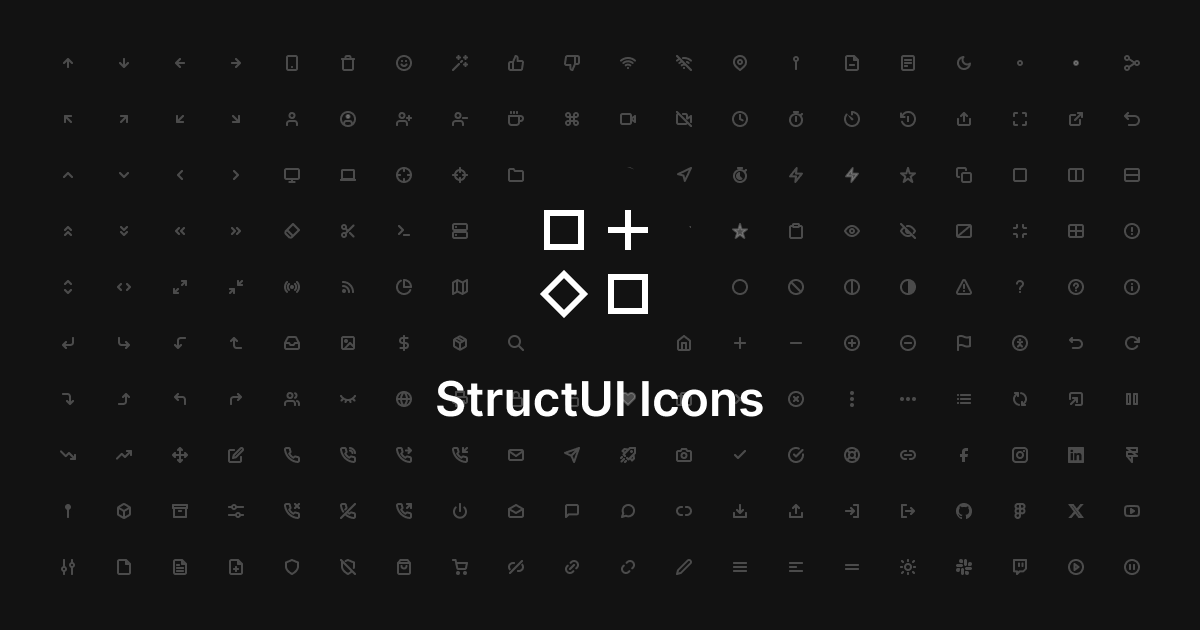
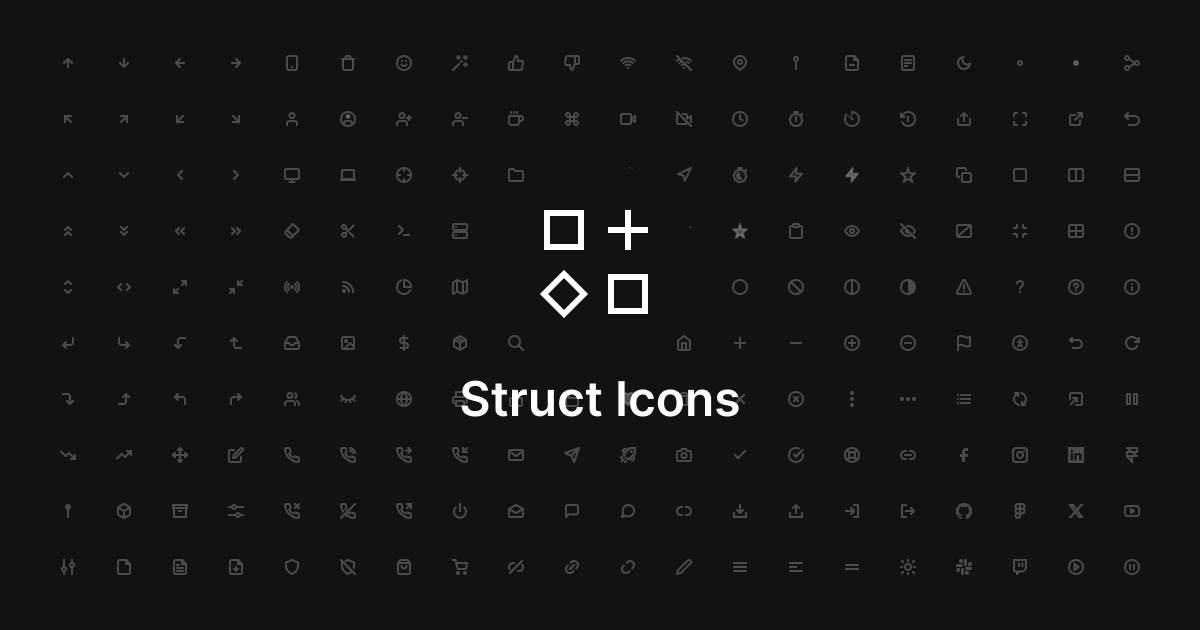
Metadata updated

Changed region(s): [[0.3392, 0.6032, 0.6475, 0.6635]]

diff --git a/app/layout.tsx b/app/layout.tsx
@@ -5,9 +5,15 @@ import { inter } from "./fonts";
 import Script from "next/script";
 
 export const metadata: Metadata = {
-  title: "StructUI Icons",
+  metadataBase: new URL("https://www.nsctwa.com"),
+  title: "Struct Icons",
   description:
     "A set of 16x16 pixel-perfect icons designed by the designers & developers for the designers & developers.",
+  openGraph: {
+    title: "Struct Icons",
+    description:
+      "A set of 16x16 pixel-perfect icons designed by the designers & developers for the designers & developers.",
+  },
 };
 
 export default function RootLayout({
